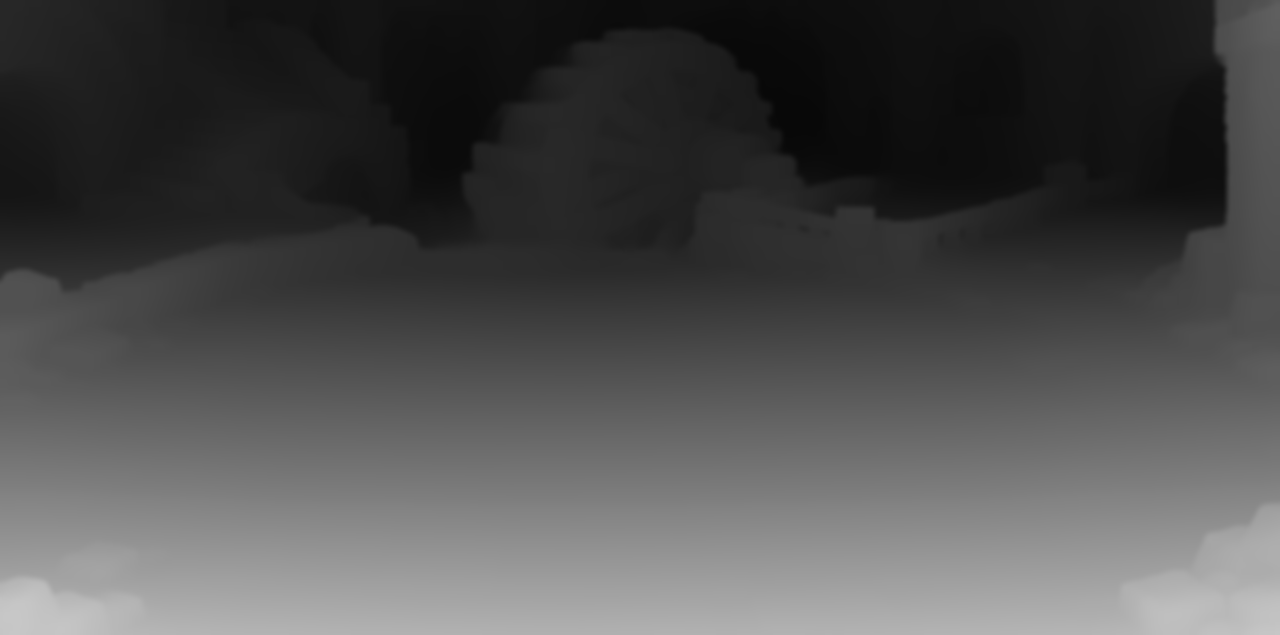
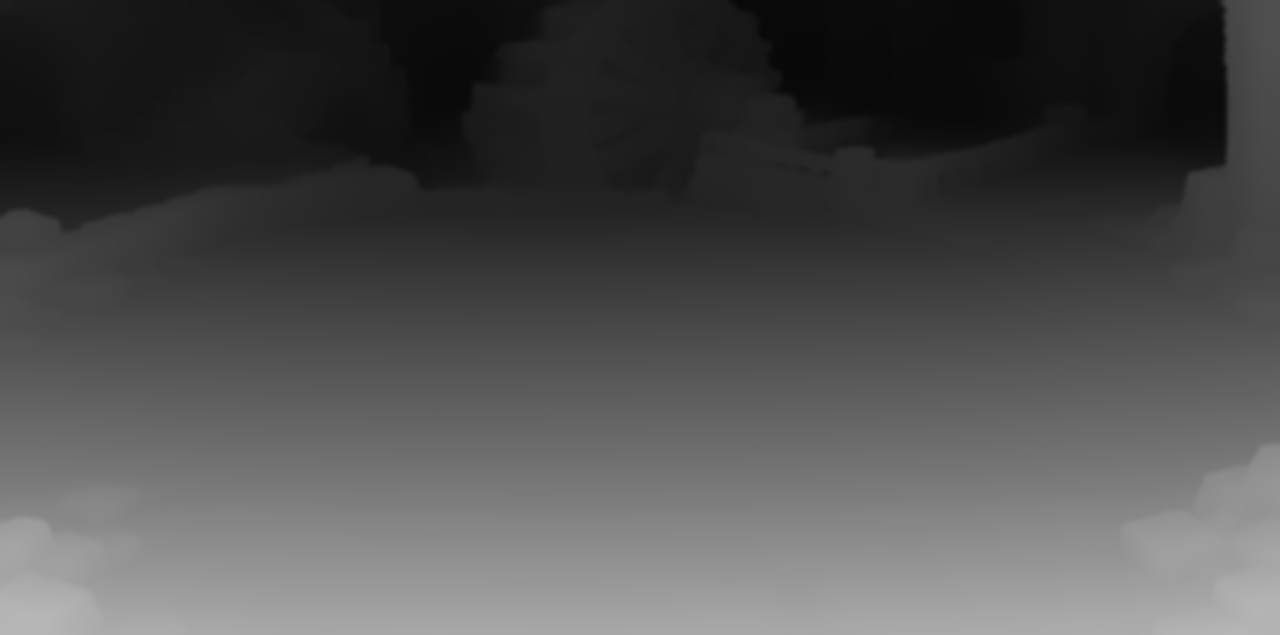
Battle stage 3D: Waterwheel raised 120 px so the back row stands on the floor; preset/depth re-measured

diff --git a/modules/fabula-ultima-companion/scripts/battle-director/battle-stage-3d-rules.js b/modules/fabula-ultima-companion/scripts/battle-director/battle-stage-3d-rules.js
@@ -104,13 +104,13 @@ export const PRESETS = Object.freeze({
   // stage rows match the old art. Horizons: floor fit of Depth Anything V2 (the encoder
   // reproduces the shipped Highroad map at r 0.994 when given its 175.3); strength by the
   // usual rule, back row (feet ~row 217) drawn at 0.72. All open/relief models.
-  // Highroad and the Stepped hall are raised 110 px on the v2 canvas so the back row stands on the floor
+  // Highroad and the Stepped hall are raised 110 px (Waterwheel 120 px) on the v2 canvas so the back row stands on the floor
   // (the old art put the horizon / back ledge at the back-row feet). Horizons measured on the raised art.
   Eisendrache_Battlemap002_v2: { horizon: 65.3, strength: 0.363, orbitX: 8, orbitY: 2, stage3d: { relief: true, backRow: 222, frontRow: 547 } },
   Eisendrache_Battlemap004_v2: { horizon: 47.1, strength: 0.392, stage3d: { relief: true, backRow: 222, frontRow: 547 } },
   Hideout_Battlemap001_v2: { horizon: 139.7, strength: 0.242, stage3d: { relief: true, backRow: 222, frontRow: 547 } },
   // Waterwheel: the cut-off top of the wheel was completed by a second ChatGPT pass (2026-11-15).
-  Hideout_Battlemap002_v2: { horizon: 16.5, strength: 0.439, stage3d: { relief: true, backRow: 222, frontRow: 547 } },
+  Hideout_Battlemap002_v2: { horizon: -56.4, strength: 0.551, stage3d: { relief: true, backRow: 222, frontRow: 547 } },
   // The original's heavy right/bottom vignette was relit from a second ChatGPT pass (stage edge only).
   Hideout_Battlemap003_v2: { horizon: -171, strength: 0.723, stage3d: { relief: true, backRow: 222, frontRow: 547 } },
   Hideout_Battlemap004_v2: { horizon: -242.7, strength: 0.831, stage3d: { relief: true, backRow: 222, frontRow: 547 } },
